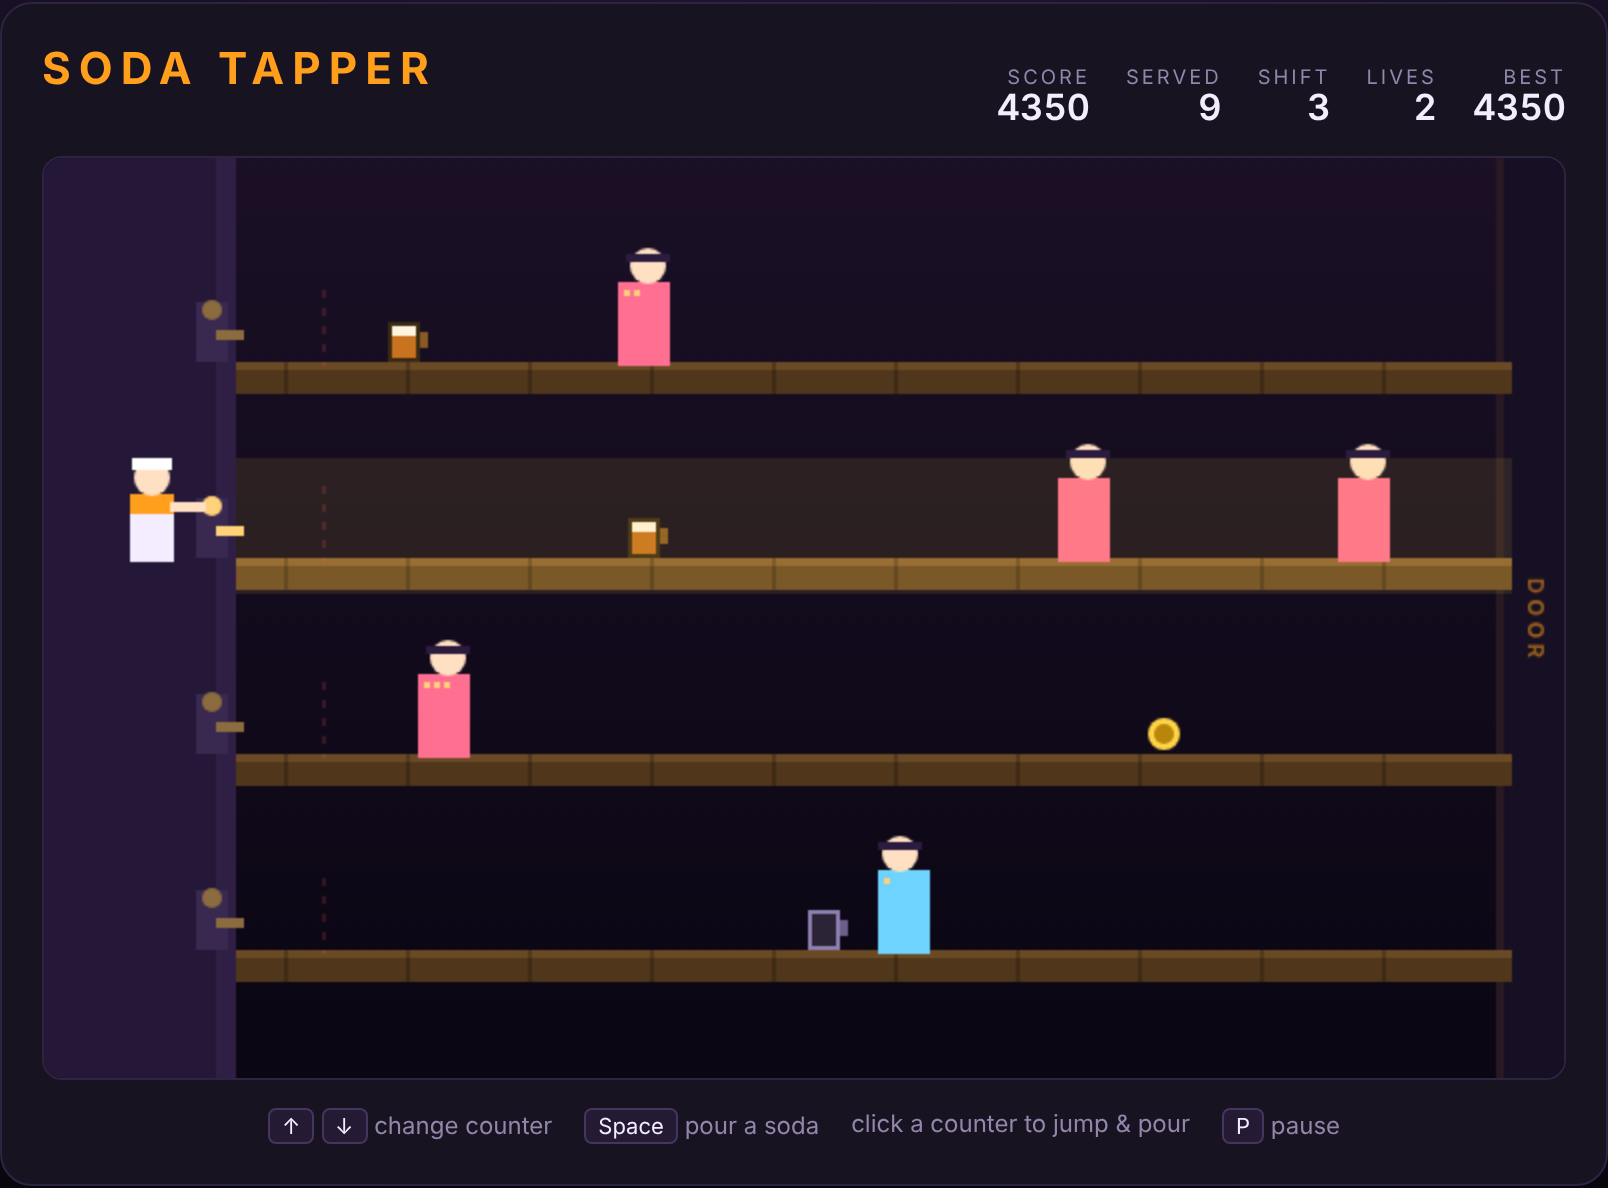
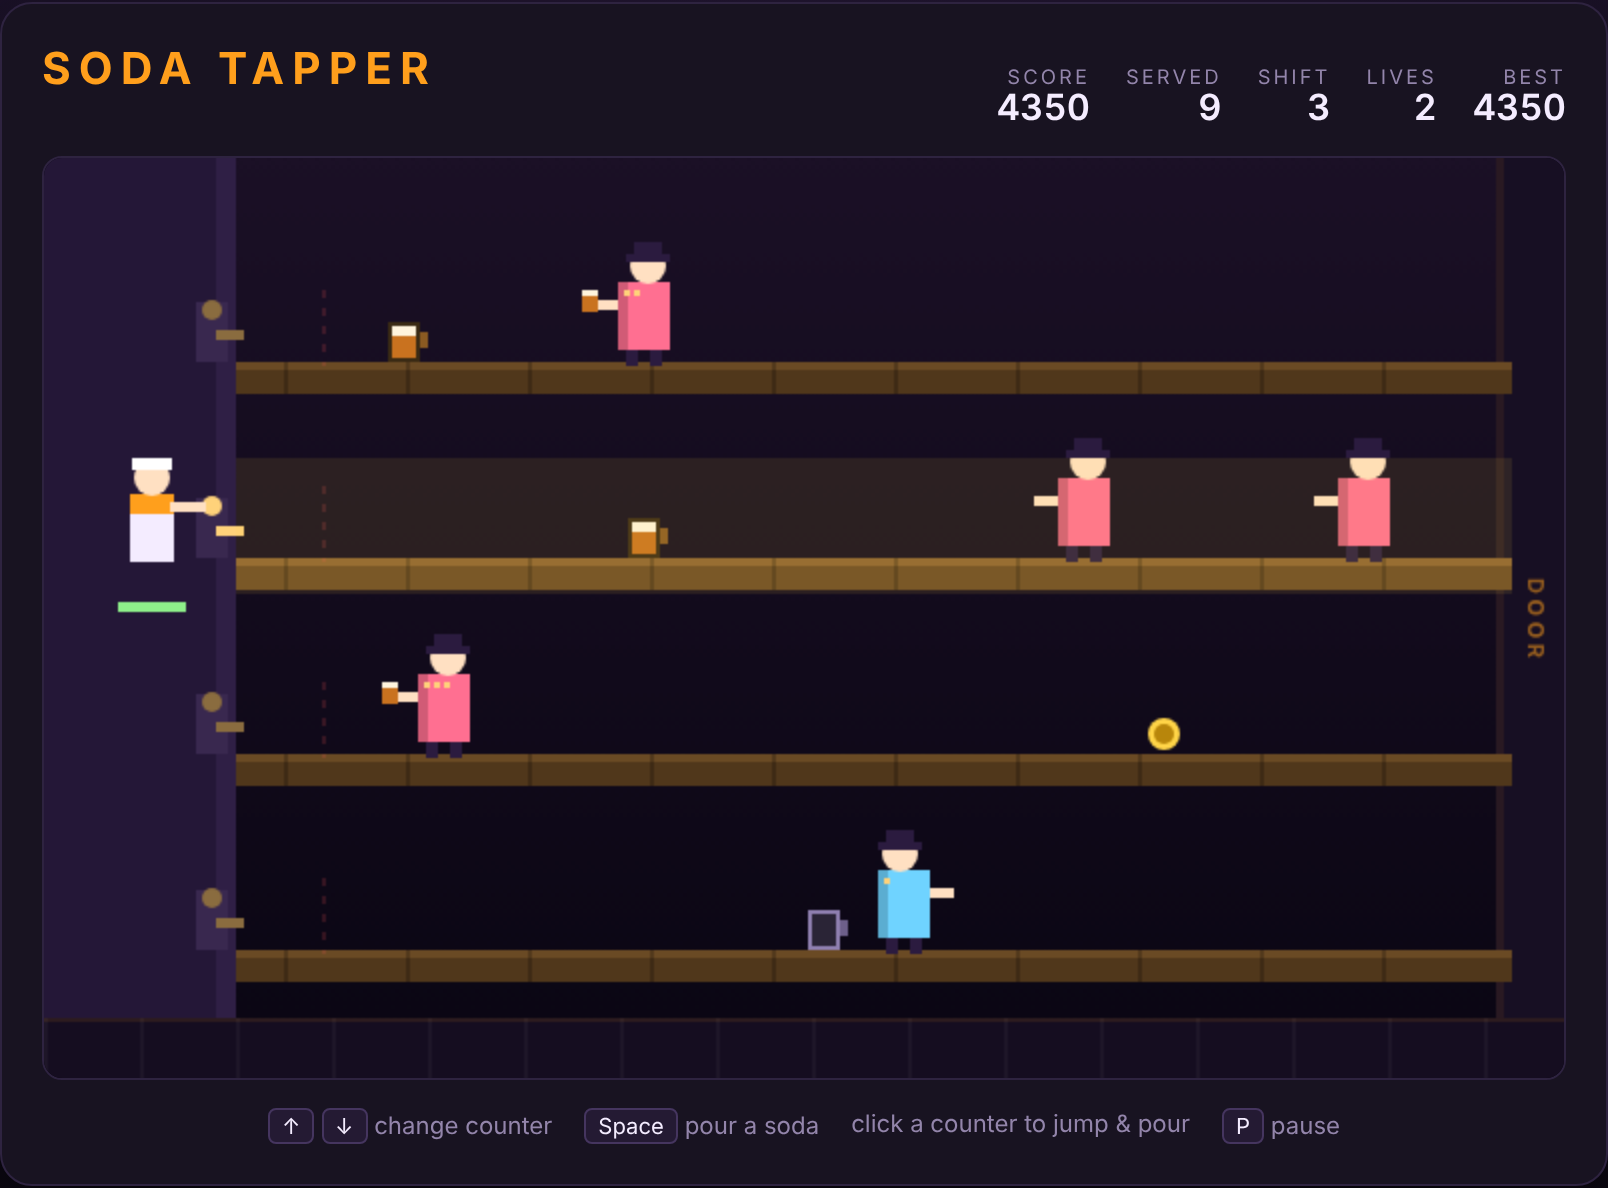
Polish Soda Tapper visuals and add game-browser integration tests
- Patrons gain legs, hats, a reaching arm and a mug once served, so a
  crowded counter reads at a glance; a floorboard strip fills the room
- A pour-cooldown meter under the jerk makes the one invisible rule in the
  game visible, and a shift banner marks each cleared shift
- Five integration specs pin the games.json entry, its alphabetical
  position, the thumbnail, and the README/DESIGN docs
- Move the existing Peg Pop entry in games.json into alphabetical order:
  it sat before Paratrooper, which failed Peg Pop's own sort spec on main

Claude-Session: https://claude.ai/code/session_019M1bKq2pP9YtsyRTyWB5jz

diff --git a/SodaTapper/game.js b/SodaTapper/game.js
@@ -95,6 +95,7 @@ let pourCooldown = 0;
 let autoStep = true;               // tests switch this off to own the clock
 let hudDirty = false;
 let flash = [];                    // { lane, t } — red wash after a mistake
+let banner = null;                 // { text, t } — brief mid-board announcement
 
 // --- Seeded RNG ----------------------------------------------------------
 // A tiny LCG, so a test can pin the sequence of spawn lanes and tip drops.
@@ -134,6 +135,8 @@ function startGame() {
     jerk.lane = 0;
     state = 'playing';
     autoStep = true;
+    flash.length = 0;
+    banner = null;
     startLevel();
     hideOverlay();
     updateHud();
@@ -143,7 +146,6 @@ function startLevel() {
     patrons.length = 0;
     mugs.length = 0;
     tips.length = 0;
-    flash.length = 0;
     spawned = 0;
     pourCooldown = 0;
     // The first arrival of a shift comes in early, so a shift never opens with
@@ -312,6 +314,10 @@ function stepFlash(dt) {
         flash[i].t -= dt;
         if (flash[i].t <= 0) flash.splice(i, 1);
     }
+    if (banner) {
+        banner.t -= dt;
+        if (banner.t <= 0) banner = null;
+    }
 }
 
 function applyLosses(losses) {
@@ -386,6 +392,7 @@ function checkShiftComplete() {
     addScore(LEVEL_BONUS * level);
     level += 1;
     markHud();
+    banner = { text: `SHIFT ${level}`, t: 1.6 };
     startLevel();
 }
 
@@ -433,8 +440,10 @@ function draw() {
     mugs.forEach(drawMug);
     patrons.forEach(drawPatron);
     drawJerk();
+    drawPourMeter();
     drawFlashes();
     if (state === 'playing') drawCoverHint();
+    drawBanner();
 }
 
 function drawRoom() {
@@ -455,6 +464,15 @@ function drawRoom() {
     ctx.fillRect(BAR_RIGHT + 6, 0, CANVAS_W - BAR_RIGHT - 6, CANVAS_H);
     ctx.fillStyle = 'rgba(255, 159, 28, 0.08)';
     ctx.fillRect(BAR_RIGHT + 6, 0, 4, CANVAS_H);
+
+    // Floorboards below the lowest counter.
+    const floorY = LANE_Y[LANES - 1] + 44;
+    ctx.fillStyle = '#150d20';
+    ctx.fillRect(0, floorY, CANVAS_W, CANVAS_H - floorY);
+    ctx.fillStyle = 'rgba(255, 255, 255, 0.04)';
+    for (let x = 0; x < CANVAS_W; x += 48) ctx.fillRect(x, floorY, 2, CANVAS_H - floorY);
+    ctx.fillStyle = 'rgba(255, 159, 28, 0.10)';
+    ctx.fillRect(0, floorY, CANVAS_W, 2);
 
     ctx.fillStyle = 'rgba(255, 159, 28, 0.55)';
     ctx.font = 'bold 11px "Segoe UI", system-ui, sans-serif';
@@ -506,26 +524,48 @@ function drawCounter(lane) {
 function drawPatron(p) {
     const y = LANE_Y[p.lane];
     const foot = y + 12;
-    // Lean forwards while walking in, backwards while being shoved out.
-    const lean = p.push > 0 ? -2 : 2;
+    const shoved = p.push > 0;
+    // Lean backwards while being shoved out, forwards while walking in.
+    const lean = shoved ? -2 : 2;
+    const bodyTop = foot - PATRON_H;
 
-    ctx.fillStyle = p.push > 0 ? '#6fd3ff' : '#ff6f91';
-    ctx.fillRect(p.x - PATRON_W / 2, foot - PATRON_H, PATRON_W, PATRON_H);
+    // Legs, planted in a stride so the crowd does not read as a row of blocks.
+    ctx.fillStyle = '#2b1b3f';
+    ctx.fillRect(p.x - 9, foot - 9, 6, 9);
+    ctx.fillRect(p.x + 3, foot - 9, 6, 9);
 
-    // Head.
+    // Body.
+    ctx.fillStyle = shoved ? '#6fd3ff' : '#ff6f91';
+    ctx.fillRect(p.x - PATRON_W / 2, bodyTop, PATRON_W, PATRON_H - 8);
+    ctx.fillStyle = 'rgba(0, 0, 0, 0.18)';
+    ctx.fillRect(p.x - PATRON_W / 2, bodyTop, 5, PATRON_H - 8);
+
+    // Arm, reaching towards the taps for the next soda.
+    ctx.fillStyle = '#ffe0c2';
+    const armX = shoved ? p.x + PATRON_W / 2 : p.x - PATRON_W / 2 - 12;
+    ctx.fillRect(armX, bodyTop + 9, 12, 5);
+
+    // Head and hat.
     ctx.fillStyle = '#ffe0c2';
     ctx.beginPath();
-    ctx.arc(p.x + lean, foot - PATRON_H - 8, 9, 0, Math.PI * 2);
+    ctx.arc(p.x + lean, bodyTop - 8, 9, 0, Math.PI * 2);
     ctx.fill();
-
-    // Hat brim, so patrons read as a crowd rather than blocks.
     ctx.fillStyle = '#2b1b3f';
-    ctx.fillRect(p.x + lean - 11, foot - PATRON_H - 14, 22, 4);
+    ctx.fillRect(p.x + lean - 11, bodyTop - 14, 22, 4);
+    ctx.fillRect(p.x + lean - 7, bodyTop - 20, 14, 7);
+
+    // A mug in hand once they have been served at least once.
+    if (p.drinks > 0 && !shoved) {
+        ctx.fillStyle = '#c9721f';
+        ctx.fillRect(armX - 6, bodyTop + 4, 8, 11);
+        ctx.fillStyle = '#fff4dd';
+        ctx.fillRect(armX - 6, bodyTop + 4, 8, 3);
+    }
 
     // One pip per soda already drunk.
     ctx.fillStyle = '#ffd27a';
     for (let i = 0; i < Math.min(p.drinks, 5); i++) {
-        ctx.fillRect(p.x - PATRON_W / 2 + 3 + i * 5, foot - PATRON_H + 4, 3, 3);
+        ctx.fillRect(p.x - PATRON_W / 2 + 3 + i * 5, bodyTop + 4, 3, 3);
     }
 }
 
@@ -584,6 +624,37 @@ function drawJerk() {
     // Arm reaching for the tap of the covered counter.
     ctx.fillStyle = '#ffe0c2';
     ctx.fillRect(x + 9, foot - 30, 18, 5);
+}
+
+// A short bar under the jerk that drains as the tap recharges, so the only
+// invisible rule in the game — the pour cooldown — is readable.
+function drawPourMeter() {
+    const y = LANE_Y[jerk.lane];
+    const x = BAR_LEFT - 56;
+    const w = 34;
+    const ready = pourCooldown <= 0;
+    ctx.fillStyle = 'rgba(255, 255, 255, 0.14)';
+    ctx.fillRect(x - w / 2, y + 32, w, 5);
+    ctx.fillStyle = ready ? '#8ef08a' : '#ff9f1c';
+    const filled = ready ? w : w * (1 - pourCooldown / POUR_COOLDOWN);
+    ctx.fillRect(x - w / 2, y + 32, filled, 5);
+}
+
+function drawBanner() {
+    if (!banner) return;
+    const alpha = Math.min(1, banner.t / 0.6);
+    ctx.save();
+    ctx.globalAlpha = alpha;
+    ctx.fillStyle = 'rgba(9, 6, 18, 0.72)';
+    ctx.fillRect(CANVAS_W / 2 - 110, CANVAS_H / 2 - 28, 220, 56);
+    ctx.fillStyle = '#ff9f1c';
+    ctx.font = 'bold 30px "Segoe UI", system-ui, sans-serif';
+    ctx.textAlign = 'center';
+    ctx.textBaseline = 'middle';
+    ctx.fillText(banner.text, CANVAS_W / 2, CANVAS_H / 2);
+    ctx.restore();
+    ctx.textAlign = 'left';
+    ctx.textBaseline = 'alphabetic';
 }
 
 function drawFlashes() {

diff --git a/SodaTapper/tests/soda-tapper.spec.js b/SodaTapper/tests/soda-tapper.spec.js
@@ -1,8 +1,10 @@
 const { test, expect } = require('@playwright/test');
+const fs = require('fs');
 const path = require('path');
 const { pathToFileURL } = require('url');
 
 const GAME_URL = pathToFileURL(path.resolve(__dirname, '../index.html')).href;
+const REPO_ROOT = path.resolve(__dirname, '../..');
 
 // Advance the simulation deterministically: `frames` calls to step(dt).
 const advance = (page, frames, dt = 1 / 60) =>
@@ -975,6 +977,48 @@ test.describe('Soda Tapper', () => {
             expect(out.level).toBeGreaterThanOrEqual(2);
             expect(out.score).toBeGreaterThan(1000);
             expect(out.livesAtShift2).toBe(3);
+        });
+    });
+
+    // -----------------------------------------------------------------------
+    // Game browser integration
+    // -----------------------------------------------------------------------
+    test.describe('game browser integration', () => {
+        const loadGames = () =>
+            JSON.parse(fs.readFileSync(path.join(REPO_ROOT, 'game-browser/src/assets/games.json'), 'utf8'));
+
+        test('games.json lists Soda Tapper', () => {
+            const entry = loadGames().find((g) => g.id === 'soda-tapper');
+            expect(entry).toBeTruthy();
+            expect(entry.name).toBe('Soda Tapper');
+            expect(entry.dir).toBe('SodaTapper');
+            expect(entry.path).toBe('games/SodaTapper/index.html');
+            expect(entry.thumbnail).toBe('games/SodaTapper/screenshot.png');
+            expect(entry.description.length).toBeGreaterThan(10);
+        });
+
+        test('the games.json entry stays alphabetically sorted by name', () => {
+            const games = loadGames();
+            const i = games.findIndex((g) => g.id === 'soda-tapper');
+            expect(i).toBeGreaterThan(0);
+            expect(games[i - 1].name.localeCompare(games[i].name)).toBeLessThanOrEqual(0);
+            if (i + 1 < games.length) {
+                expect(games[i].name.localeCompare(games[i + 1].name)).toBeLessThanOrEqual(0);
+            }
+        });
+
+        test('the thumbnail the browser points at exists', () => {
+            expect(fs.existsSync(path.join(REPO_ROOT, 'SodaTapper/screenshot.png'))).toBe(true);
+        });
+
+        test('the root README lists the game', () => {
+            const readme = fs.readFileSync(path.join(REPO_ROOT, 'README.md'), 'utf8');
+            expect(readme).toContain('| Soda Tapper | [SodaTapper/](SodaTapper/) |');
+        });
+
+        test('the game ships its own README and design notes', () => {
+            expect(fs.existsSync(path.join(REPO_ROOT, 'SodaTapper/README.md'))).toBe(true);
+            expect(fs.existsSync(path.join(REPO_ROOT, 'SodaTapper/DESIGN.md'))).toBe(true);
         });
     });
 });

diff --git a/README.md b/README.md
@@ -142,7 +142,7 @@ For each new game, put it in a new folder. Each game should have its own README.
 | Canyon Raider | [CanyonRaider/](CanyonRaider/) | Complete |
 | Air Traffic Control | [AirTrafficControl/](AirTrafficControl/) | Complete |
 | Gold Runner | [GoldRunner/](GoldRunner/) | Complete |
-| Soda Tapper | [SodaTapper/](SodaTapper/) | In Progress |
+| Soda Tapper | [SodaTapper/](SodaTapper/) | Complete |
 
 ## Playing
 
